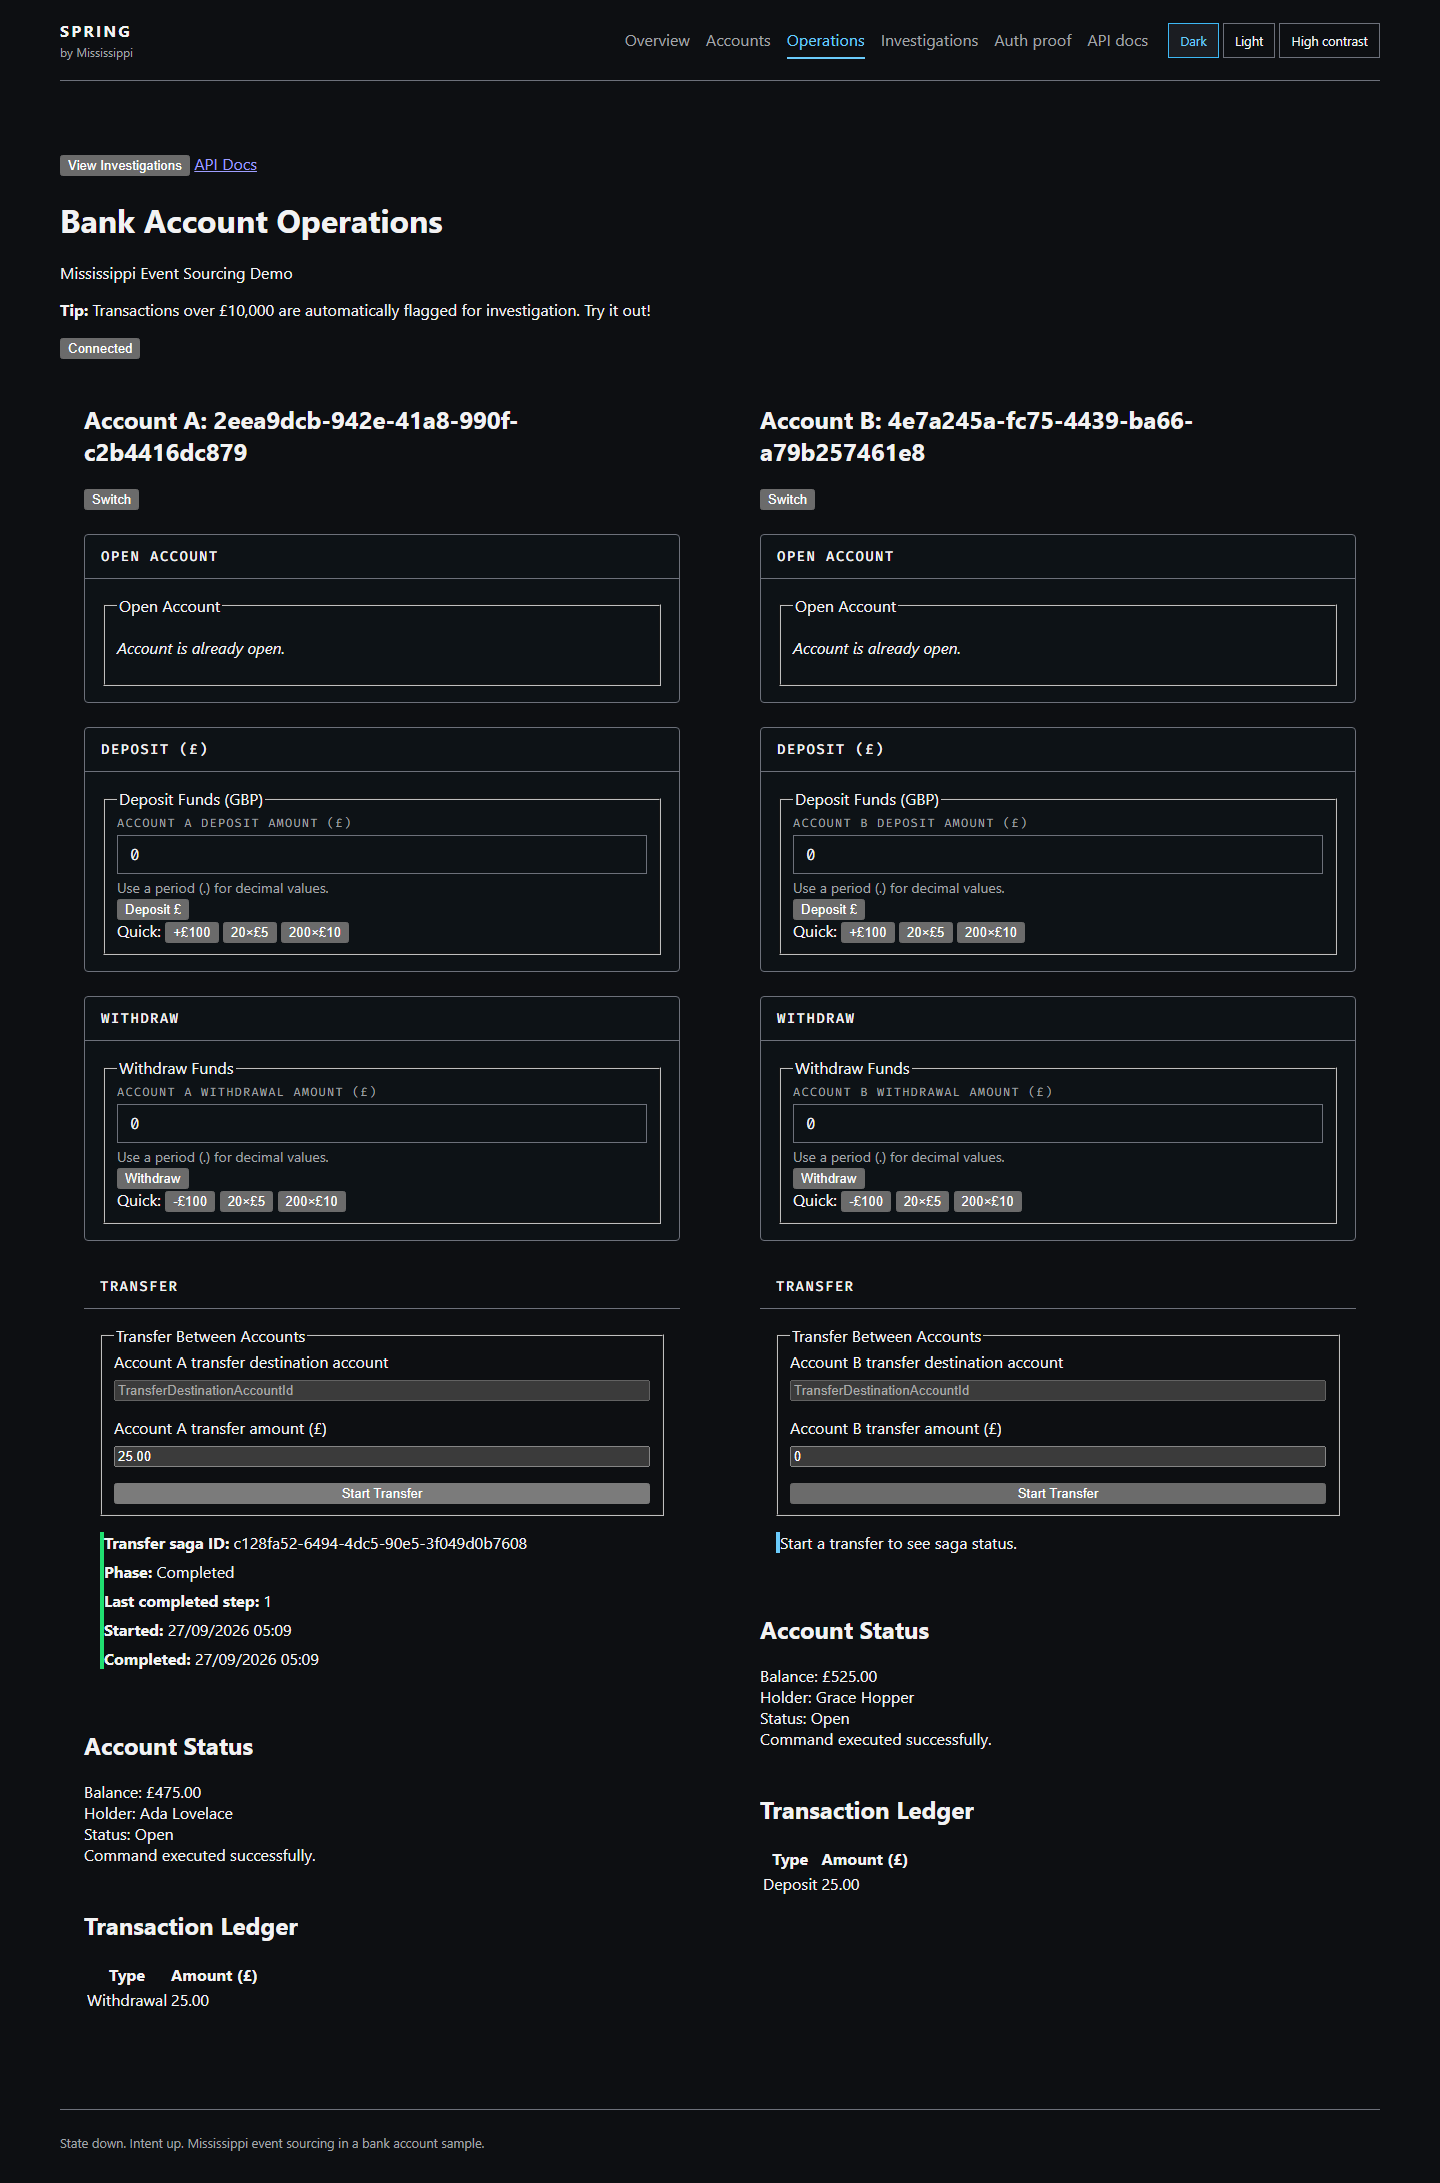
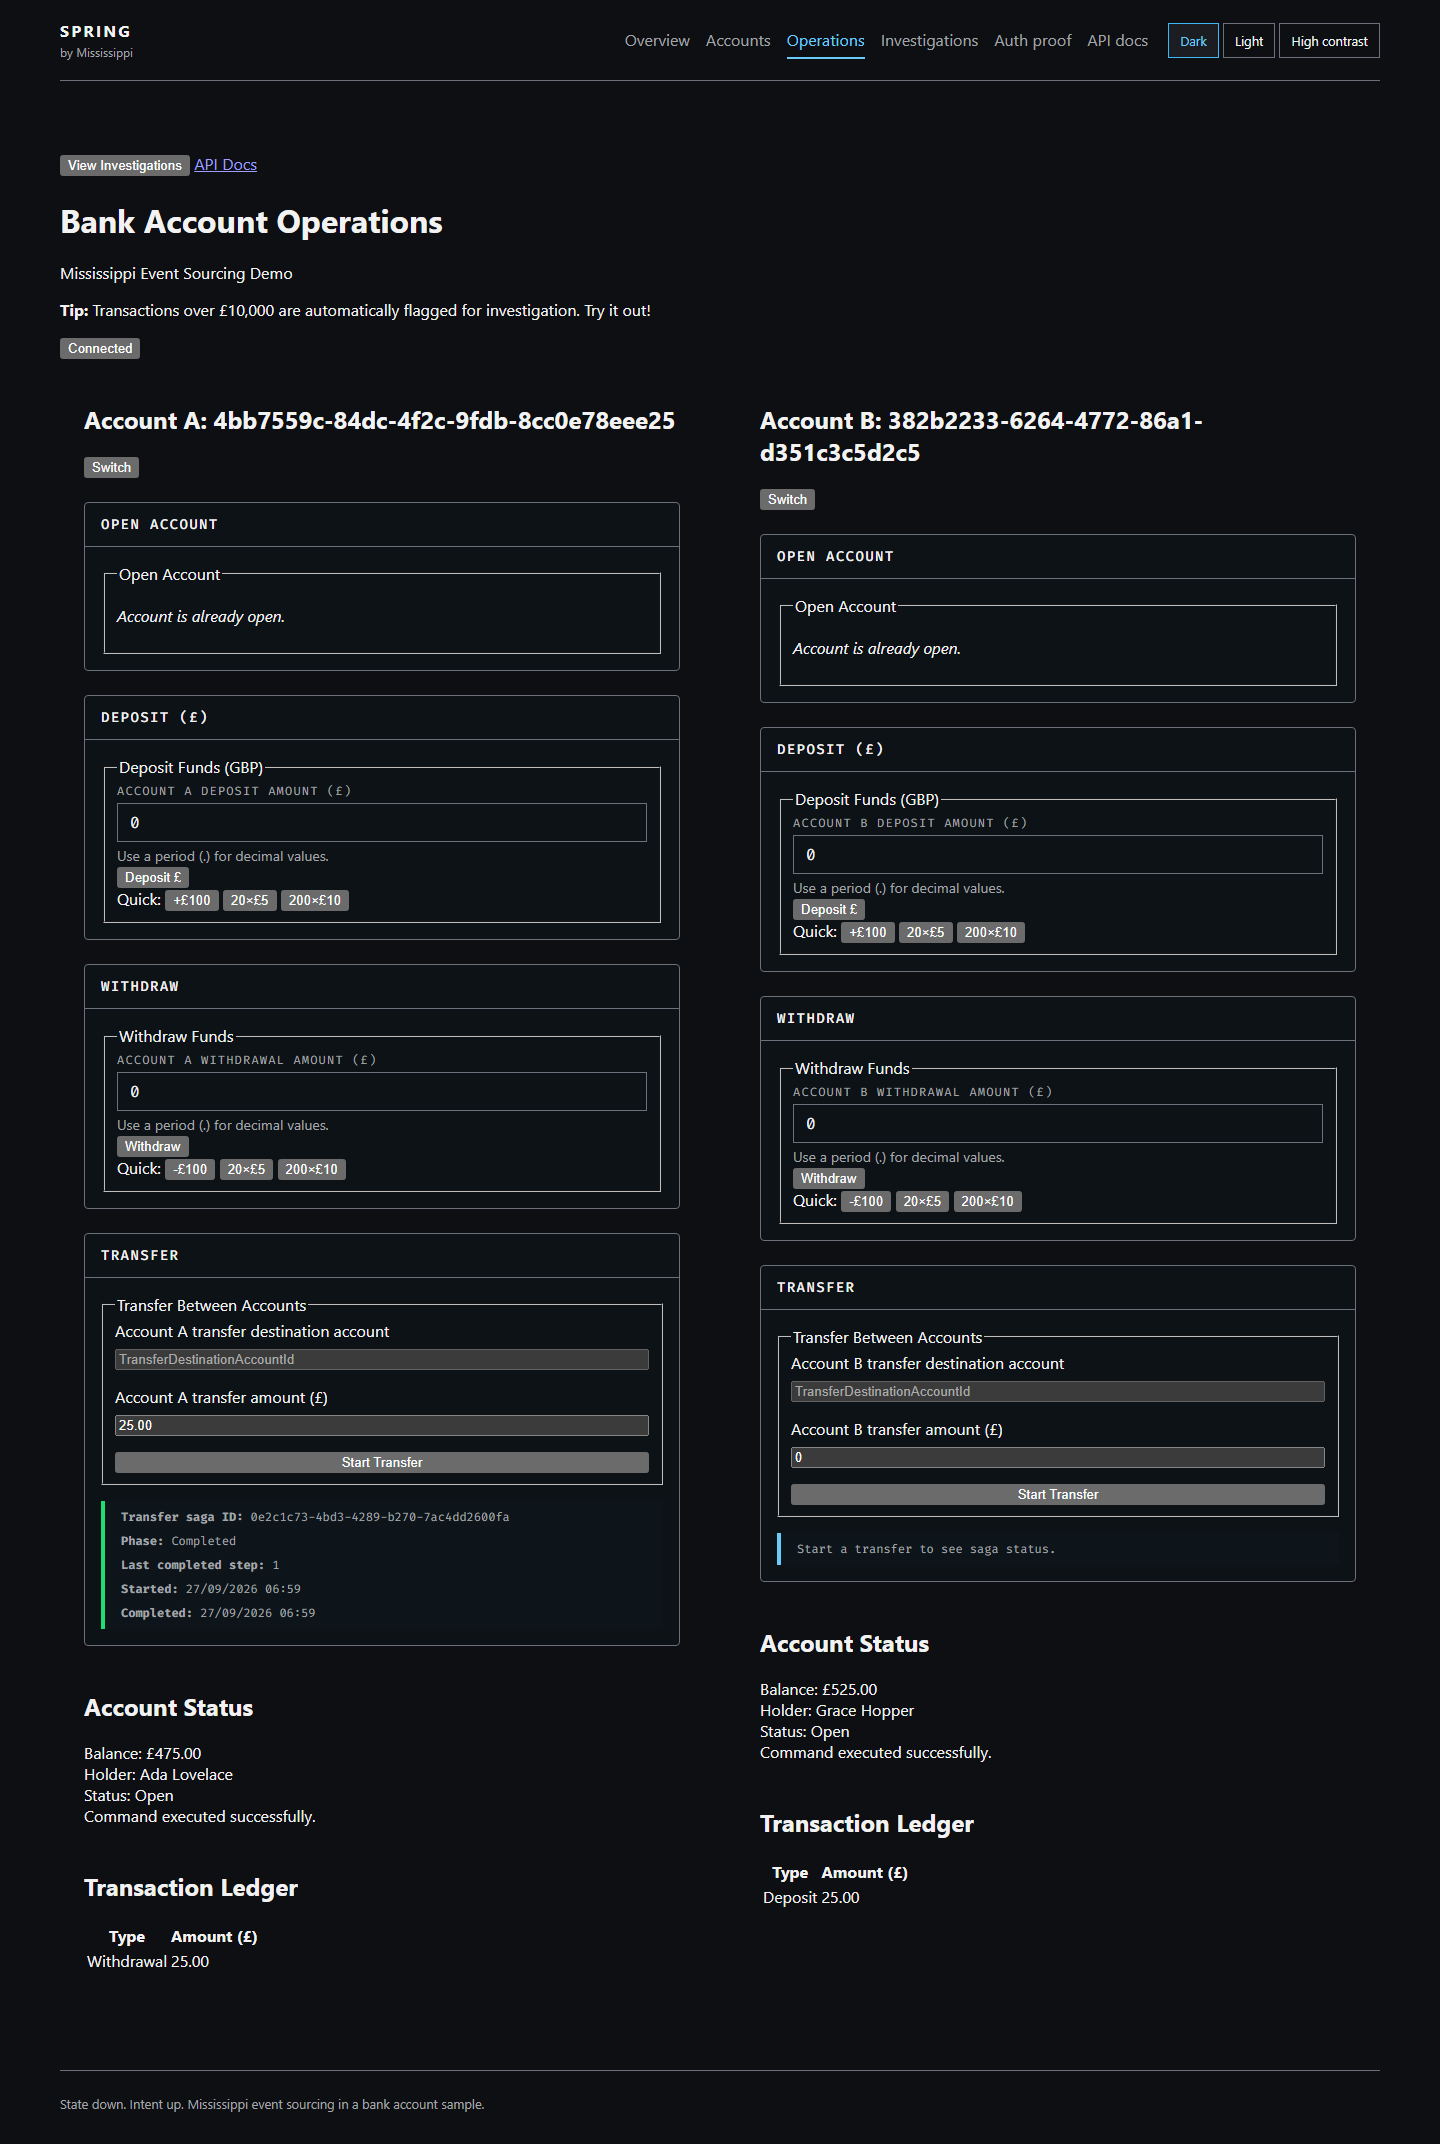
Fix transfer status review feedback +semver: skip

diff --git a/samples/Spring/Spring.Client/Components/Organisms/AccountOperationsSection/AccountOperationsSection.razor.css b/samples/Spring/Spring.Client/Components/Organisms/AccountOperationsSection/AccountOperationsSection.razor.css
@@ -17,7 +17,7 @@
     min-width: 0;
 }
 
-.spring-transfer__content ::deep .spring-transfer__status-strip {
+.spring-transfer__content ::deep [data-spring-transfer-status="true"] {
     align-items: flex-start;
     flex-wrap: wrap;
     min-width: 0;
@@ -32,15 +32,15 @@
     min-width: 0;
 }
 
-.spring-transfer__content ::deep .spring-transfer__status-strip[data-state="complete"] {
+.spring-transfer__content ::deep [data-spring-transfer-status="true"][data-state="complete"] {
     border-inline-start-color: var(--rf-color-status-success);
 }
 
-.spring-transfer__content ::deep .spring-transfer__status-strip[data-state="alert"] {
+.spring-transfer__content ::deep [data-spring-transfer-status="true"][data-state="alert"] {
     border-inline-start-color: var(--rf-color-status-warning);
 }
 
-.spring-transfer__content ::deep .spring-transfer__status-strip[data-state="error"] {
+.spring-transfer__content ::deep [data-spring-transfer-status="true"][data-state="error"] {
     border-inline-start-color: var(--rf-color-status-error);
 }
 

diff --git a/samples/Spring/Spring.Client.L0Tests/Components/Organisms/AccountOperationsSectionTests.cs b/samples/Spring/Spring.Client.L0Tests/Components/Organisms/AccountOperationsSectionTests.cs
@@ -125,6 +125,38 @@ public sealed class AccountOperationsSectionTests : BunitContext
     }
 
     /// <summary>
+    ///     Every mapped saga phase is presented with its supported Refraction state.
+    /// </summary>
+    /// <param name="phase">The projected saga phase.</param>
+    /// <param name="expectedState">The expected Refraction telemetry state.</param>
+    [Theory]
+    [InlineData(SagaPhaseDto.NotStarted, "quiet")]
+    [InlineData(SagaPhaseDto.Completed, "complete")]
+    [InlineData(SagaPhaseDto.Compensated, "alert")]
+    [InlineData(SagaPhaseDto.Compensating, "busy")]
+    [InlineData(SagaPhaseDto.Running, "busy")]
+    public void TransferStatusMapsSagaPhaseToRefractionState(
+        SagaPhaseDto phase,
+        string expectedState
+    )
+    {
+        MoneyTransferStatusProjectionDto projection = new(
+            null,
+            null,
+            null,
+            0,
+            phase,
+            new(2026, 9, 27, 10, 15, 0, TimeSpan.Zero));
+        using IRenderedComponent<AccountOperationsSection> cut = Render<AccountOperationsSection>(p => p
+            .Add(c => c.InputIdPrefix, "account-a")
+            .Add(c => c.PanelLabel, "Account A")
+            .Add(c => c.IsAccountOpen, true)
+            .Add(c => c.IsExecutingOrLoading, false)
+            .Add(c => c.TransferStatusProjection, projection));
+        Assert.Equal(expectedState, cut.Find("#account-a-transfer-status").GetAttribute("data-state"));
+    }
+
+    /// <summary>
     ///     Transfer status placeholder renders when projection is missing.
     /// </summary>
     [Fact]
@@ -164,8 +196,11 @@ public sealed class AccountOperationsSectionTests : BunitContext
         IElement transferPanel = cut.Find("#account-a-transfer-panel");
         IElement status = cut.Find("#account-a-transfer-status");
         Assert.Equal("Transfer", transferPanel.QuerySelector("h2")?.TextContent.Trim());
+        Assert.Contains("rf-pane", transferPanel.GetAttribute("class"), StringComparison.Ordinal);
         Assert.Equal("status", status.GetAttribute("role"));
         Assert.Equal("Account A transfer status", status.GetAttribute("aria-label"));
+        Assert.Contains("rf-telemetry-strip", status.GetAttribute("class"), StringComparison.Ordinal);
+        Assert.Equal("true", status.GetAttribute("data-spring-transfer-status"));
         Assert.Equal("error", status.GetAttribute("data-state"));
         Assert.Contains("Transfer saga ID: transfer-saga-123", status.TextContent, StringComparison.Ordinal);
         Assert.Contains("Phase: Failed", status.TextContent, StringComparison.Ordinal);

diff --git a/samples/Spring/Spring.L3Tests/BankAccountE2ETests.cs b/samples/Spring/Spring.L3Tests/BankAccountE2ETests.cs
@@ -57,42 +57,43 @@ public sealed class BankAccountE2ETests
         await page.SetViewportSizeAsync(1440, 900);
     }
 
+    private static async Task SaveScreenshotIfRequestedAsync(
+        IPage page,
+        string? artifactsDirectory,
+        string fileName
+    )
+    {
+        if (!string.IsNullOrWhiteSpace(artifactsDirectory))
+        {
+            await page.ScreenshotAsync(
+                new()
+                {
+                    Path = Path.Join(artifactsDirectory, fileName),
+                    FullPage = true,
+                });
+        }
+    }
+
     private static async Task SaveTransferStatusScreenshotsAsync(
         IPage page,
         OperationsPage operationsPage
     )
     {
         string? artifactsDirectory = Environment.GetEnvironmentVariable("SPRING_TEST_ARTIFACTS");
-        if (string.IsNullOrWhiteSpace(artifactsDirectory))
+        if (!string.IsNullOrWhiteSpace(artifactsDirectory))
         {
-            return;
+            Directory.CreateDirectory(artifactsDirectory);
         }
 
-        Directory.CreateDirectory(artifactsDirectory);
         await page.SetViewportSizeAsync(1440, 900);
-        await page.ScreenshotAsync(
-            new()
-            {
-                Path = Path.Join(artifactsDirectory, "transfer-completed-dark-desktop.png"),
-                FullPage = true,
-            });
+        await SaveScreenshotIfRequestedAsync(page, artifactsDirectory, "transfer-completed-dark-desktop.png");
         await operationsPage.SetThemeAsync("Light", "light");
         await operationsPage.WaitForTransferPhaseAsync("Completed", ProjectionTimeout);
-        await page.ScreenshotAsync(
-            new()
-            {
-                Path = Path.Join(artifactsDirectory, "transfer-completed-light-desktop.png"),
-                FullPage = true,
-            });
+        await SaveScreenshotIfRequestedAsync(page, artifactsDirectory, "transfer-completed-light-desktop.png");
         await operationsPage.SetThemeAsync("High contrast", "high-contrast");
         await operationsPage.WaitForTransferPhaseAsync("Completed", ProjectionTimeout);
         await page.SetViewportSizeAsync(390, 844);
-        await page.ScreenshotAsync(
-            new()
-            {
-                Path = Path.Join(artifactsDirectory, "transfer-completed-high-contrast-mobile.png"),
-                FullPage = true,
-            });
+        await SaveScreenshotIfRequestedAsync(page, artifactsDirectory, "transfer-completed-high-contrast-mobile.png");
     }
 
     /// <summary>
